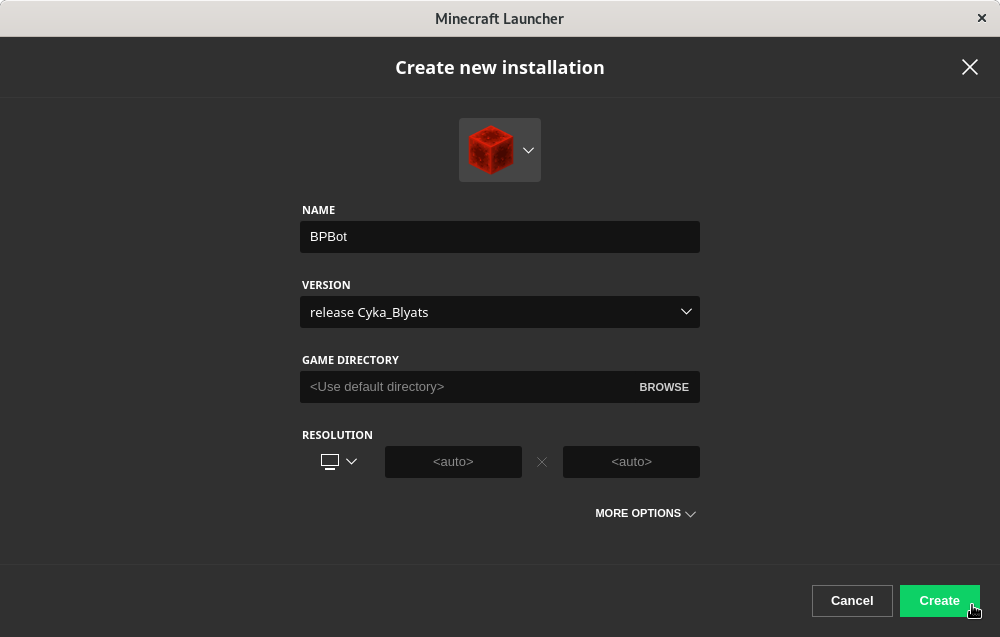
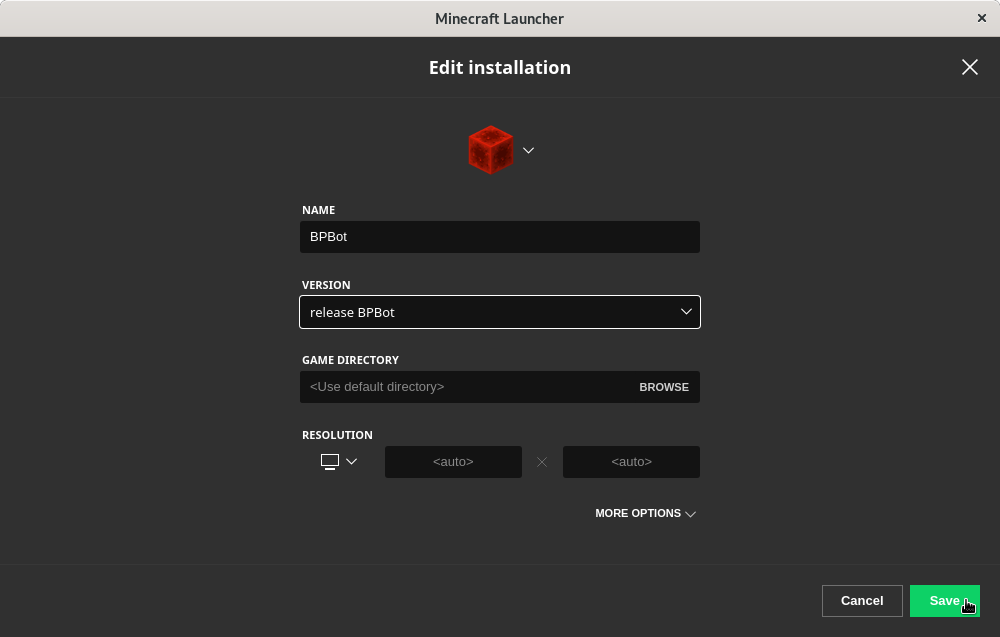
Add files via upload

Changed region(s): [[0.806, 0.9246, 0.992, 0.9843], [0.403, 0.0895, 0.62, 0.1193], [0.341, 0.4772, 0.434, 0.5071]]

diff --git a/README.md b/README.md
@@ -1,5 +1,4 @@
 # bp-bot
-
 ## Inspiration
 * **Tired of wasting your life away on Block Party, but you still want to earn those points?**
 
@@ -7,46 +6,49 @@
 
 * **Or do you just want to step away from the computer for a moment, and still earn those points?**
 
-This minecraft client helps prevent carpal tunnel syndrome by automating game play for the weary.
+BPBot helps prevent carpal tunnel syndrome by automating game play for the weary.
 
 ## What does it do?
-This is a standard minecraft client (currently v 1.12) which has some additional code to automate your player.
+This is a standard minecraft client (using v 1.12) which has some additional code to automate your Block Party player.
 
-When BPBot is enabled, the following occur:
+When BPBot auto mode is enabled, the following actions occur:
 * Scans the floor to detect the blocks.
 * When the color is called, it will run the player to the closest block.
-* After stopping on a block, the BPBot will perform some intermission moves.
-* Once a new floor is loaded, BPBot will reposition your player at location (where most colors are).
+* After stopping on a block, BPBot will perform some intermission moves.
+* Once a new floor is loaded, BPBot will reposition your player at location that has the best probability (location where most colors are).
+
+Other features include:
+* Snarky chat messages when people fall.
+* Automatic exit to new game.
+* Automatic movement in the lobby.
 
 ## Installation
-
 * #### Locate your minecraft versions folder:
-| OS   |      Location      |
+| OS       | Location     |
 |----------|:-------------|
 | Windows |  %APPDATA%\\.minecraft\versions |
-| macOS |    ~/Library/Application Support/minecraft/versions   |
-| Linux | ~/.minecraft/versions  |
+| macOS   |    ~/Library/Application Support/minecraft/versions |
+| Linux   | ~/.minecraft/versions |
 
-More details can be found here [https://minecraft.gamepedia.com/.minecraft](https://minecraft.gamepedia.com/.minecraft).
+More details regarding you .minecraft folder can be found here [https://minecraft.gamepedia.com/.minecraft](https://minecraft.gamepedia.com/.minecraft).
 
-* ####  Copy the files in this repo into a new folder in the versions directory:
+* ####  Copy the BPBot folder from this repo into the versions directory:
 
+For example:
 ```
 .minecraft\versions\BPAuto'
 ```
 
-* ####  Start the minecraft launcher and create a new profile
+* ####  Start the minecraft launcher and create a new installation
 ![Create New Profile](img_01.png)
 
-* ####  Select the newly added version (release BPBot)
+* ####  Select the newly added version (release BPBot) from the drop down menu
 ![Create New Profile](img_02.png)
 
-* ####  Play the newly create profile
+* ####  Play the newly create installation like normal
 ![Create New Profile](img_03.png)
 
-
 ## Instructions
-
 * Once in game, press the `m` key to open the menu.  
 * With the menu open, press the `1` key to enable BP Auto mode.  
 * Press the `m` key once again to close the menu.
@@ -54,5 +56,7 @@ More details can be found here [https://minecraft.gamepedia.com/.minecraft](http
 ### Controls
 * `m` - toggles the main menu
 * `1` - toggles BP Auto mode
-* `d` - toggles debug logging messages
+* `s` - toggle speed boost
+* `j` - toggle jump boost
 * `u` - enable high stepping
+* `d` - toggles debug logging messages
